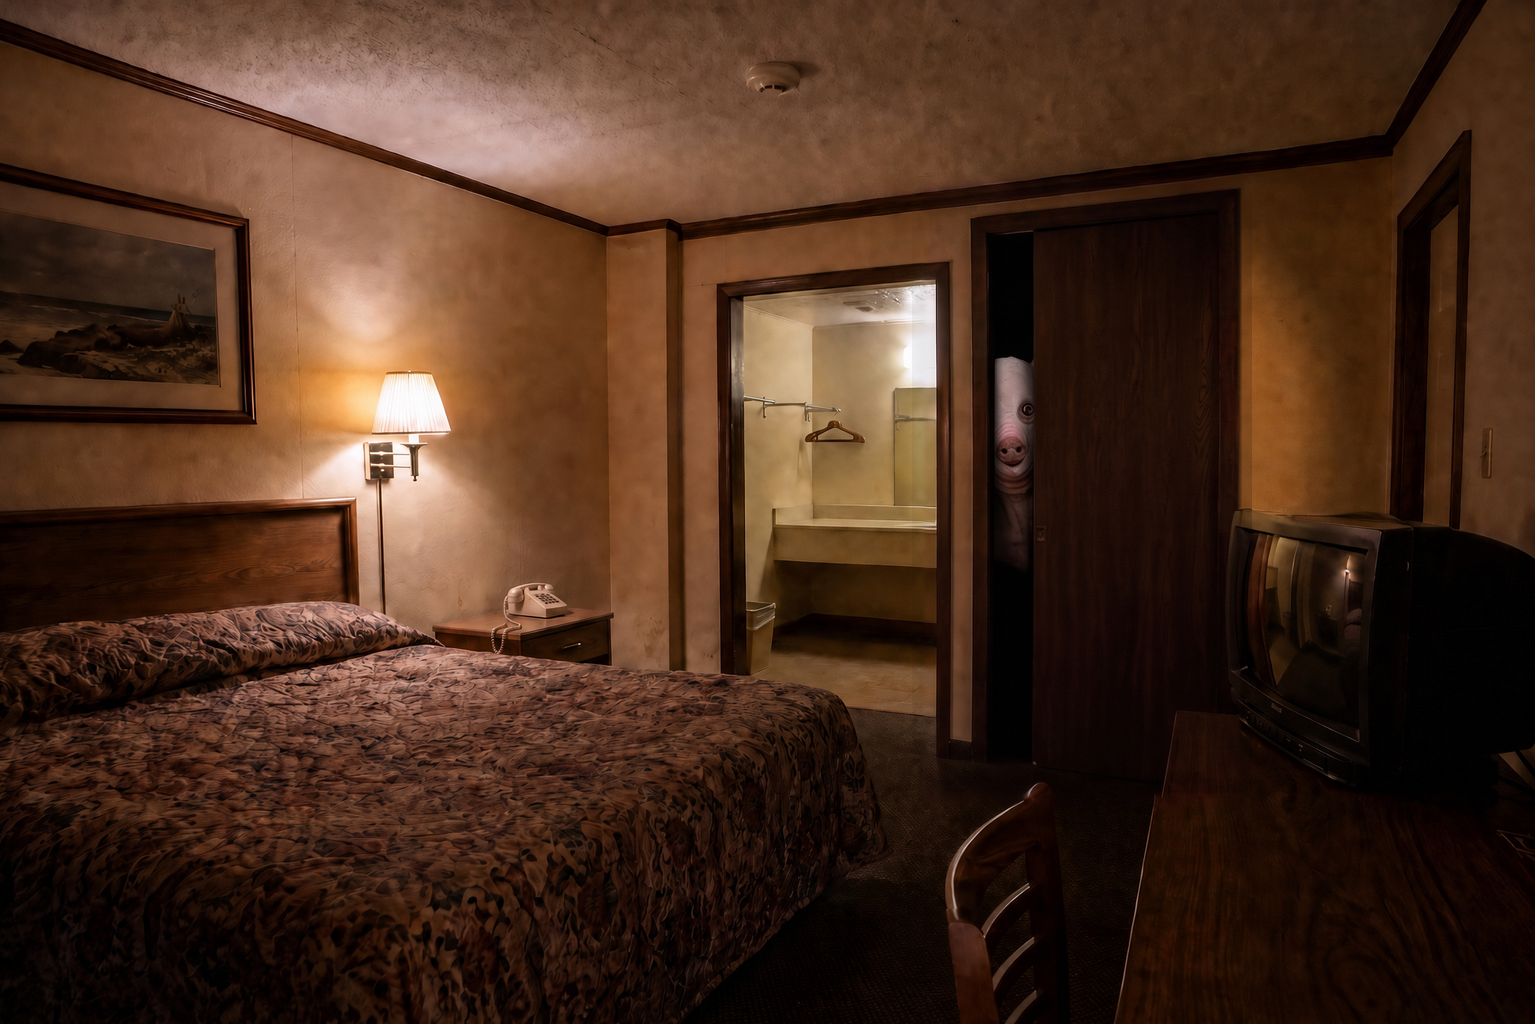
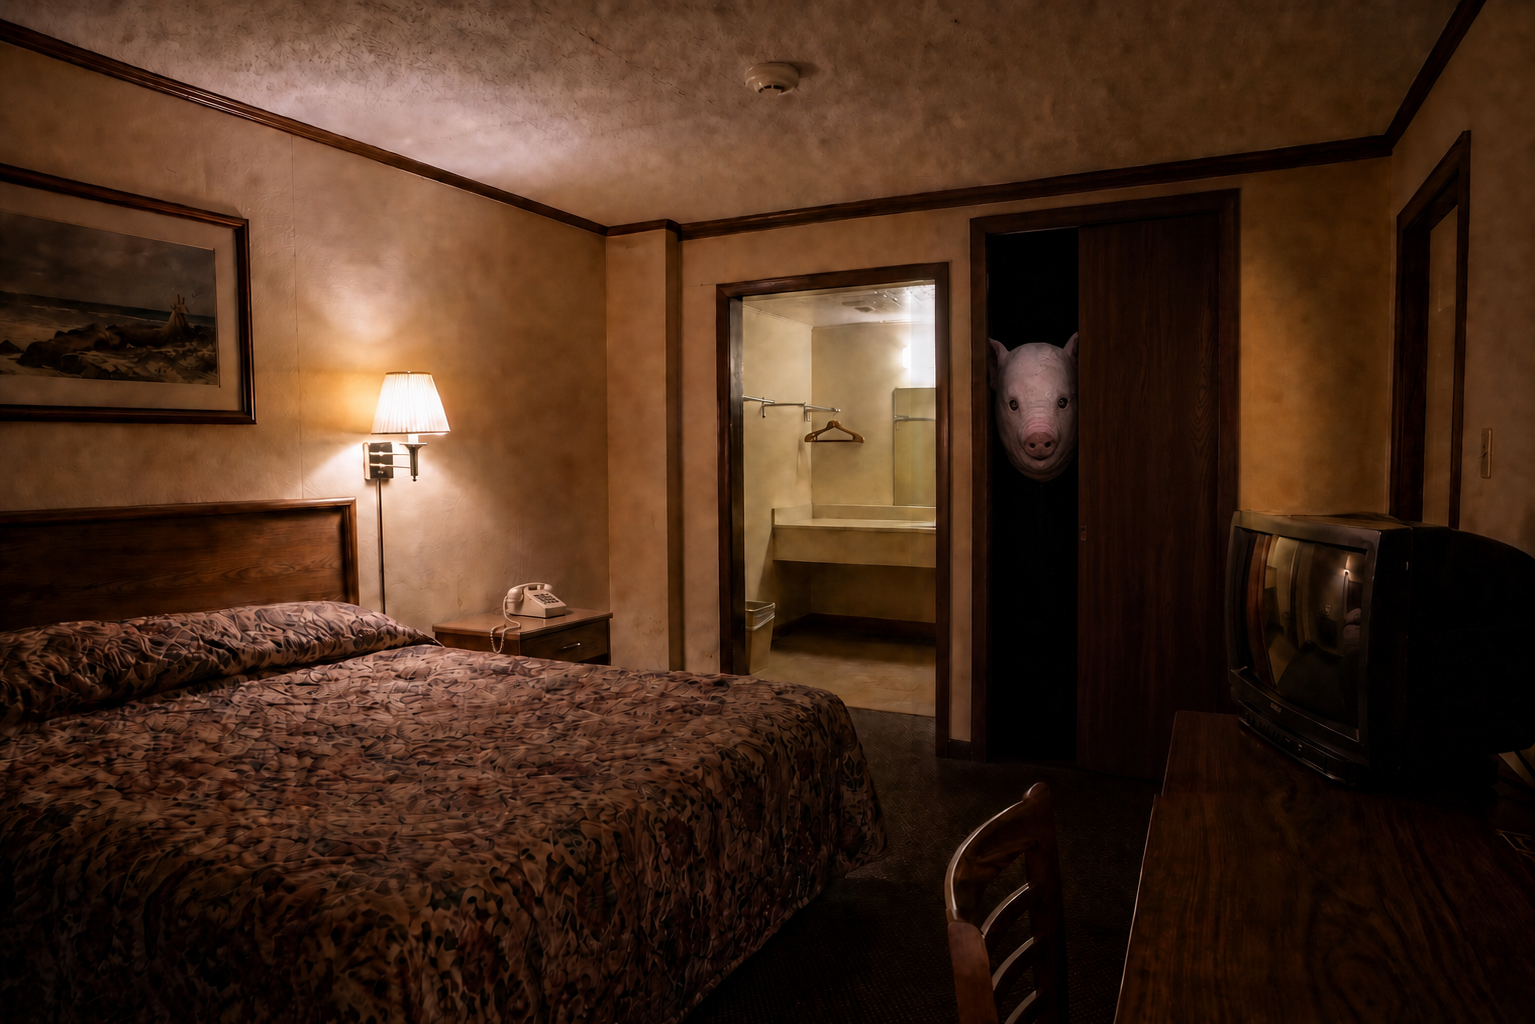
fix: tighten closet pig encounter pacing

diff --git a/docs/image-prompts/confirmed-anomalies.en.md b/docs/image-prompts/confirmed-anomalies.en.md
@@ -248,19 +248,19 @@ Do not include a human head, face, eyes, hands, feet, complete limbs, fetus, or 
 - Canon entity name: `Closet Pig-Mask Man`
 - Event ID: `room_105_closet_pig_man`
 - Source: `resource/images/room_105_bathroom_entry.png`
-- Deliverables: man `door_open`, `peek`, `fatal`
+- Deliverables: man `stage_1`, `stage_2`, `fatal`
 - Status: The opening door and pig-mask man are canon confirmed.
 - Identity reference: `resource/images/references/entities/room_105_closet_pig_mask_man/reference_pig_mask_01.png`
 
 ```text
-[DOOR_OPEN]
-In the original Room 105 scene, open only the wardrobe door by a narrow amount, revealing complete darkness inside. Preserve door dimensions, hinge axis, perspective, and surrounding shadows. Do not show a person, eye, face, or clothing inside yet. Do not open any other door or alter the room layout.
+[STAGE_1]
+Lock the entire original Room 105 scene and leave only a narrow black gap in the nearly closed wardrobe. Deep in the darkness, an adult man wearing the exact pale peach-pink pig mask from the identity reference stares at the player. Reveal part of one ear, one side of the forehead, exactly one complete eye hole with a pale gray human eye, and half of the snout. Do not reveal the second eye, full mask, neck, or body. He does not hold the door or step into the room.
 
-[PEEK]
-Use the accepted DOOR_OPEN state, lock the entire room, and close the wardrobe until an approximately 40–50 px black gap remains in the 1535 px-wide scene. Deep in the darkness is an adult man wearing the exact pale peach-pink pig mask from the identity reference. Preserve its relatively smooth surface, very high rounded forehead, asymmetric outward ears, tiny low-set circular recessed eye holes, broad short cylindrical snout, two round black nostrils, and tiny mouth immediately below. Allow only faint scuffs and small gray marks; do not obscure its form with mud or heavy grime. Through the gap reveal part of one ear, one side of the high smooth forehead, exactly one complete eye hole with a pale gray human eye, and approximately half of the broad short snout with one full nostril plus only the inner edge of the second nostril. Do not reveal the second eye, full mask, readable full face, neck, or body. He does not hold the door or step into the room. Match the room perspective, warm lighting, deep wardrobe shadow, and film grain. Do not copy the forest or black coat from the reference, and do not create a woman’s face, literal animal head, alternate pig-mask design, or bloody wounds.
+[STAGE_2]
+Keep the accepted STAGE_1 room, camera, furniture, lighting, perspective, and film grain locked, and open only the wardrobe door moderately wider. The same man remains motionless in the same position and stares directly at the player through both eyes. Both eyes, the full snout, and most of the mask must be readable, while the neck, shoulders, and body remain completely swallowed by the black wardrobe. Preserve the high rounded forehead, asymmetric ears, small recessed circular eye holes, broad short snout, round nostrils, and tiny mouth. Add no forest background, black coat, female face, literal pig head, alternate mask, blood, wounds, glow, or theatrical effects.
 
 [FATAL]
-Append the jumpscare master prompt and reveal the exact same pale peach-pink pig mask frontally. Preserve the reference's high rounded forehead, asymmetric ears, tiny recessed circular eye holes, broad short snout, round black nostrils, and tiny mouth. Pale gray human eyes inside the holes stare with excessive clarity. Keep the wardrobe, room, and lower body almost invisible, with no sexual exposure.
+Append the jumpscare master prompt and reveal the exact same pale peach-pink pig mask from STAGE_2 frontally. Preserve the reference's high rounded forehead, asymmetric ears, tiny recessed circular eye holes, broad short snout, round black nostrils, and tiny mouth. Pale gray human eyes inside the holes stare with excessive clarity. Keep the wardrobe, room, and lower body almost invisible, with no sexual exposure.
 ```
 
 ## E02. The Unanswered Call

diff --git a/docs/anomaly-bible/entities/pig-mask-man.md b/docs/anomaly-bible/entities/pig-mask-man.md
@@ -3,19 +3,19 @@
 - 분류: 엔티티
 - 주 활동 구역: 105호 옷장
 - 최초 등장: Day 2
-- 연결 시스템: 긴 전역 대기, 옷장 단계, 홀드 상호작용, 전역 돼지 울음
+- 연결 시스템: 전역 대기, 응시가 강화되는 옷장 단계, 홀드 상호작용, 전역 돼지 울음
 
 ## 핵심 설정
 
 창백한 돼지 가면을 쓴 성인 남자가 105호 옷장 안에서 아주 천천히 문을 밀고 나온다. 호텔 어디에 있든 낮고 젖은 돼지 울음이 들리면 이미 옷장 문이 열리기 시작한 것이다.
 
-남자는 한 번에 뛰쳐나오지 않는다. 열린 문만 보이는 단계와 문틈에서 남자가 모습을 드러낸 단계가 각각 오래 지속된다. 플레이어가 끝까지 방치하면 남자는 플레이어의 현재 위치와 관계없이 바로 앞에 나타난다.
+남자는 한 번에 뛰쳐나오지 않는다. 첫 단계부터 좁은 문틈의 한쪽 눈이 플레이어를 보고, 다음 단계에는 문이 더 열리며 두 눈과 가면 대부분이 드러난다. 플레이어가 끝까지 방치하면 남자는 플레이어의 현재 위치와 관계없이 바로 앞에 나타난다.
 
 ## 진행
 
-1. 스토리 Day 2 또는 Infinity 메인 추첨에서 선택된 근무에, 다른 이상현상이 없는 동안 5분의 최초 대기가 흐른다.
-2. `door_open` 단계가 시작되고 4분 동안 열린 옷장이 유지된다.
-3. `emerging` 단계가 시작되고 돼지 가면 남자가 문틈으로 나오기 시작한다. 이 단계도 4분 동안 유지된다.
+1. 스토리 Day 2 또는 Infinity 메인 추첨에서 선택된 근무에, 다른 이상현상이 없는 동안 90초의 최초 대기가 흐른다.
+2. `door_open` 단계가 시작되고 한쪽 눈과 가면 일부가 보이는 좁은 문틈이 45초 동안 유지된다.
+3. `emerging` 단계가 시작되면 문이 더 열리고 두 눈과 가면 대부분이 30초 동안 정면을 응시한다.
 4. 각 단계가 시작될 때 돼지 울음이 한 번 들리고, 활성 상태 동안 호텔 전역에서 24~42초 간격으로 반복된다.
 5. 마지막 대기까지 방치하면 전역 사망 처리와 정식 점프스케어가 발생한다.
 
@@ -32,9 +32,9 @@
 
 ## 비주얼 규칙
 
-- `door_open`은 내부의 완전한 어둠만 보여주고 사람이나 얼굴을 먼저 노출하지 않는다.
-- `emerging`은 좁은 문틈 속 돼지 가면의 한쪽 귀·한쪽 눈·주둥이 일부만 보여준다.
-- 가면 전체, 읽을 수 있는 얼굴 전체, 목과 몸은 문짝과 어둠으로 가린다.
+- `door_open`은 좁은 문틈 속 돼지 가면의 한쪽 눈과 주둥이 일부를 보여 주며 첫 단계부터 정면 응시가 읽혀야 한다.
+- `emerging`은 문틈이 더 넓어져 두 눈과 가면 대부분이 보이지만 남자는 옷장 밖으로 나오지 않는다.
+- 목과 몸은 두 단계 모두 문짝과 어둠으로 완전히 가린다.
 - 확정 레퍼런스: `res://resource/images/references/entities/room_105_closet_pig_mask_man/reference_pig_mask_01.png`
 - 런타임 장면: `res://resource/images/anomalies/room_105_closet_pig_man/`
 - 이전 제작물과 폐기된 곰팡이 구현은 `deprecated/2026-08-01-legacy-assets/`와 `deprecated/2026-08-01-mold-removal/`에 보관한다.
@@ -47,7 +47,8 @@
 
 - 정사 엔티티명: `옷장의 돼지 가면 남자`
 - 런타임 이벤트 ID: `room_105_closet_pig_man`
-- 최초 대기: `300초`
-- 단계별 대기: `240초`
+- 최초 대기: `90초`
+- 1단계 대기: `45초`
+- 2단계 대기: `30초`
 - 해결 홀드: `5초`
 - 전역 울음 간격: `24~42초`

diff --git a/docs/anomaly-bible/confirmed-decisions.md b/docs/anomaly-bible/confirmed-decisions.md
@@ -123,7 +123,7 @@
 
 | 엔티티 | 확정된 핵심 | 해결법 상태 |
 | --- | --- | --- |
-| 옷장의 돼지 가면 남자 | 5분 최초 대기, 각 4분의 옷장 2단계, 전역 돼지 울음과 전역 사망 | 옷장을 5초간 눌러 남자를 밀어 넣음 |
+| 옷장의 돼지 가면 남자 | 90초 최초 대기, 45초·30초의 응시 강화 2단계, 전역 돼지 울음과 전역 사망 | 옷장을 5초간 눌러 남자를 밀어 넣음 |
 | 받지 못한 전화 | 반복 벨, 미수신 시 수화기 드는 소리와 웃음 후 전역 사망, 통화가 지목한 방은 당분간 진입 금지 | 제한 횟수 전에 전화를 받음 |
 | 붉은 세탁기 | 세탁기 유리가 완전히 붉고 평소 회전음만 들림, 제한시간 종료 시 완료 음악 후 전역 사망 | 정지·음악 대기·눈 감은 세탁물 폐기 |
 | 등록되지 않은 아이 | 106호 화장실에서만 출현, 외면하면 공격, 눈 감고 노래한 뒤 안아 줌 | 확정 |
@@ -134,9 +134,9 @@
 
 ### 옷장의 돼지 가면 남자
 
-- 스토리 Day 2 또는 Infinity 메인 추첨에서 선택된 근무에, 다른 이상현상이 없는 동안 5분의 최초 대기가 흐른다.
-- 옷장문 열림과 문틈의 돼지 가면 남자 두 단계는 각각 4분 동안 진행한다.
-- 2단계의 남자는 레퍼런스와 같은 창백한 살구빛 분홍색 돼지 가면을 쓰며, 거의 닫힌 문틈에서 귀 일부, 한쪽 눈구멍과 주둥이 가장자리만 보인다. 목과 몸 전체는 문짝과 어둠에 완전히 가린다.
+- 스토리 Day 2 또는 Infinity 메인 추첨에서 선택된 근무에, 다른 이상현상이 없는 동안 90초의 최초 대기가 흐른다.
+- 1단계는 45초 동안 한쪽 눈과 가면 일부가 좁은 문틈에서 정면을 응시하고, 2단계는 30초 동안 문이 더 열려 두 눈과 가면 대부분이 보인다.
+- 두 단계 모두 목과 몸 전체는 문짝과 어둠에 완전히 가린다.
 - 각 단계가 시작될 때와 활성 중 24~42초 간격으로 전역에서 돼지 울음이 들린다.
 - 최종 제한시간이 끝나면 어느 위치에서든 점프스케어와 함께 사망한다.
 - 열린 옷장을 5초간 누르고 있으면 남자를 안으로 밀어 넣고 문을 닫는다.

diff --git a/README.md b/README.md
@@ -159,7 +159,7 @@ Rule Book presentation is image-ready. Drop photographed or scanned handwritten 
 
 The production anomaly runtime allows only one active encounter at a time. Story mode is a seven-night authored route: its primary encounters and secondary production anomalies both follow fixed Day tables. Infinity mode is endless and rolls one reusable primary encounter plus one production encounter from the full pool each night. The modes use separate saves, and a saved night restores the same preselected encounters. Runtime death, game-over, and jumpscare presentation are enabled.
 
-- The Room 105 wardrobe waits five minutes before opening, then spends four minutes in each of its open-door and emerging-man stages. Global pig squeals recur every 24–42 seconds while active; holding the wardrobe for five seconds pushes the man back and closes it.
+- The Room 105 wardrobe waits 90 seconds before the first stare appears, then escalates through 45-second and 30-second visual stages. Global pig squeals recur every 24–42 seconds while active; holding the wardrobe for five seconds pushes the man back and closes it.
 - Calls originate from Room 108. The front desk phone must be answered before its thirteenth bell, and an answered light-repair request makes Room 108 unsafe to enter.
 - The unresolved Day 3 Room 109 encounter remains debug-only. On Day 7, first entry into the corridor starts the completed wait-and-footsteps passage; touching the door or leaving early is fatal.
 - A red washer must be stopped; its door and the laundry-room exit remain dangerous until the completion music finishes. The resulting load is discarded while the player's eyes are closed.

diff --git a/docs/implementation/imagegen-mvp-assets-2026-07-26.md b/docs/implementation/imagegen-mvp-assets-2026-07-26.md
@@ -34,7 +34,7 @@
 - `front_monitor_ghost`: 프런트 구도와 모니터 외부 픽셀은 유지하고, 오른쪽 화면 안에만 비대칭 주름과 유아 비율의 두개 형상을 가진 비인간 존재를 배치했다. 검은 화면에서 실루엣이 묻히지 않도록 차가운 회색 중간 명도로 분리하고, 둥글게 뜬 눈과 중앙에 고정된 동공이 플레이어를 정면 응시하도록 했다.
 - `front_glass_face`: 중앙 유리문 밖에 같은 개체의 원거리 `visible`과 근거리 `hostile` 상태를 만들었다. 핫스폿도 실제 유리문 위치로 옮겼다.
 - `hell_mirror`: 접힌 태아형 동물-인간 존재가 불가능한 깊이에 갇힌 512×512 RGBA 아이콘으로 교체했다.
-- `room_105_closet_pig_man`: 별도 생성하지 않고 승인된 `reference_pig_mask_01.png`를 합성한 기존 `stage_2.png`와 점프스케어 원본을 계속 사용한다.
+- `room_105_closet_pig_man`: 기존 한쪽 눈 합성본을 `stage_1.png`로 사용하고, 같은 장면과 승인된 `reference_pig_mask_01.png` 정체성을 유지한 채 두 눈과 가면 대부분이 보이는 `stage_2.png`를 추가했다. 점프스케어는 승인된 레퍼런스 원본을 계속 사용한다.
 - `bathroom_shower_legs`: 네 욕실이 동일 촬영 원본을 공유하므로 승인된 105호 다리 합성본을 106~108호 장면별 경로와 manifest로 재사용한다.
 
 ## 직접 합성

diff --git a/docs/anomaly-bible/README.md b/docs/anomaly-bible/README.md
@@ -31,7 +31,7 @@
 
 | 이상현상 | 장소 | 핵심 압박 | 문서 |
 | --- | --- | --- | --- |
-| 옷장의 돼지 가면 남자 | 105호 | 긴 옷장 단계, 전역 돼지 울음, 5초 홀드 해결 | [pig-mask-man.md](entities/pig-mask-man.md) |
+| 옷장의 돼지 가면 남자 | 105호 | 짧게 강화되는 응시 2단계, 전역 돼지 울음, 5초 홀드 해결 | [pig-mask-man.md](entities/pig-mask-man.md) |
 | 받지 못한 전화 | 프런트·지목된 객실 | 전화를 늦게 받거나 통화 후 지목된 방에 진입하면 사망 | [unanswered-call.md](entities/unanswered-call.md) |
 | 붉은 세탁기 | 세탁실 | 붉은 유리, 완료 음악, 세탁물 폐기 순서 준수 | [red-washer.md](entities/red-washer.md) |
 | 등록되지 않은 아이 | 106호 화장실 | 외면하지 않고 눈을 감아 노래한 뒤 안아 주기 | [unregistered-child.md](entities/unregistered-child.md) |

diff --git a/docs/implementation/anomaly-runtime-design.md b/docs/implementation/anomaly-runtime-design.md
@@ -107,7 +107,7 @@ fatal_event_id
 - 벨 빠른 3연타 두 묶음
 - 샤워 커튼 3~5회
 - 아기 얼굴 다섯 면 비트 마스크
-- 5분 최초 대기와 각 4분의 옷장 2단계
+- 90초 최초 대기와 45초·30초의 옷장 2단계
 - 세탁기 정지·음악·눈 감은 폐기
 - 등록되지 않은 아이의 노래와 안기
 
